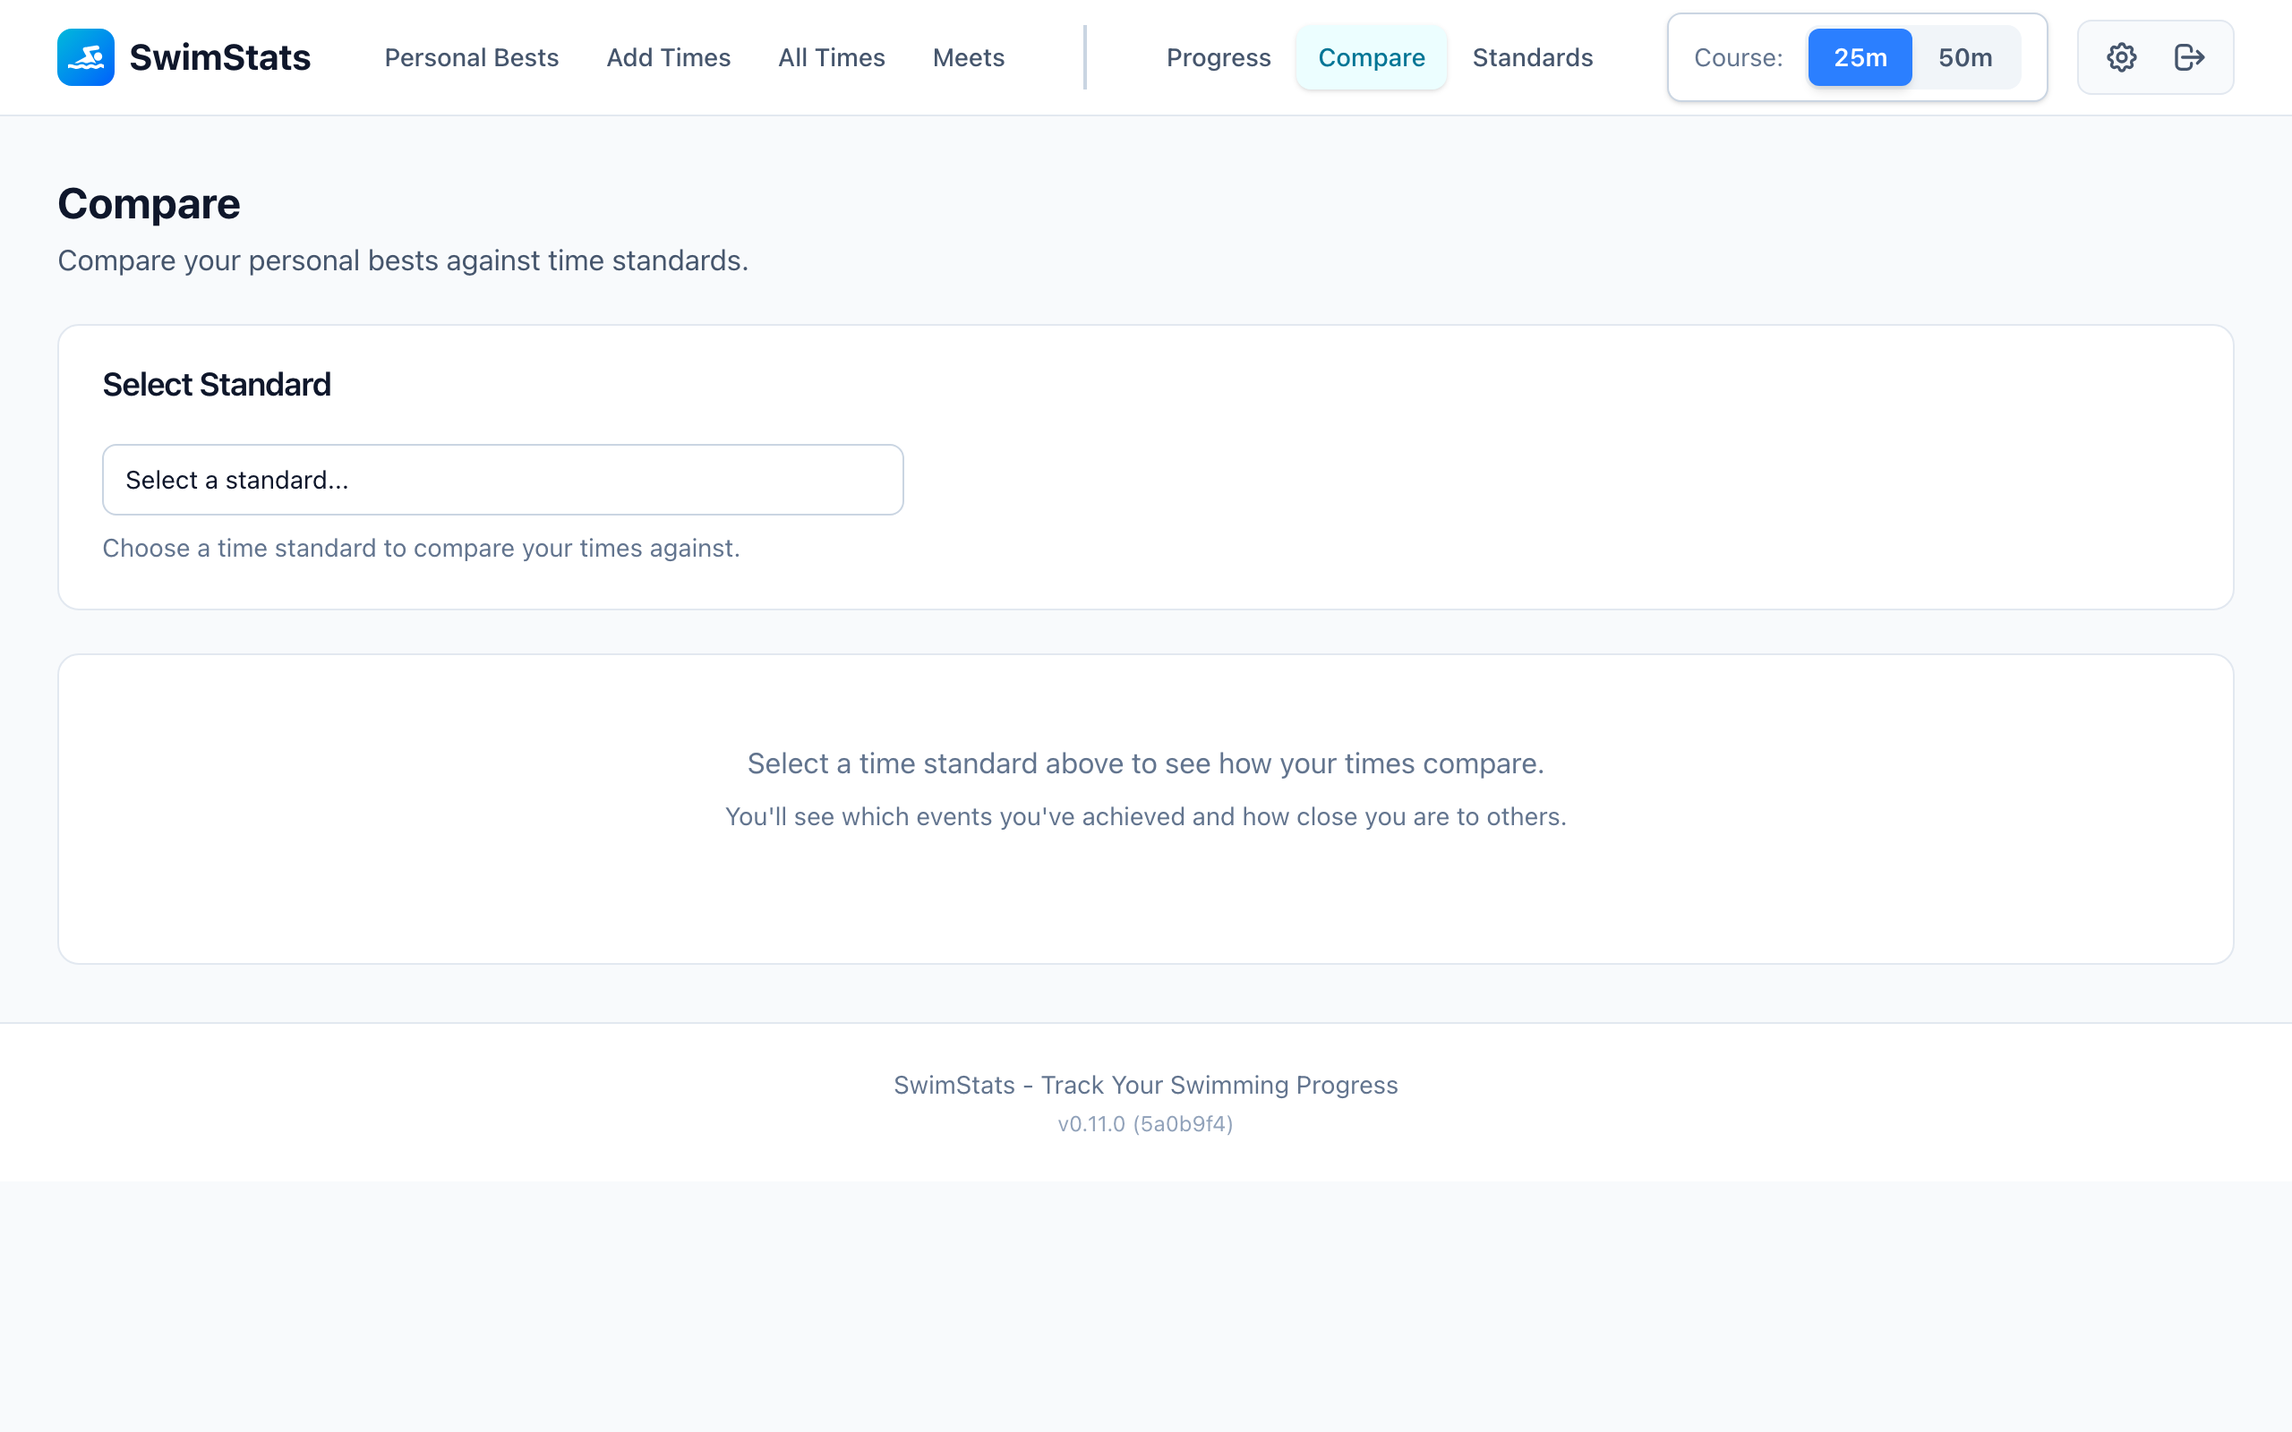
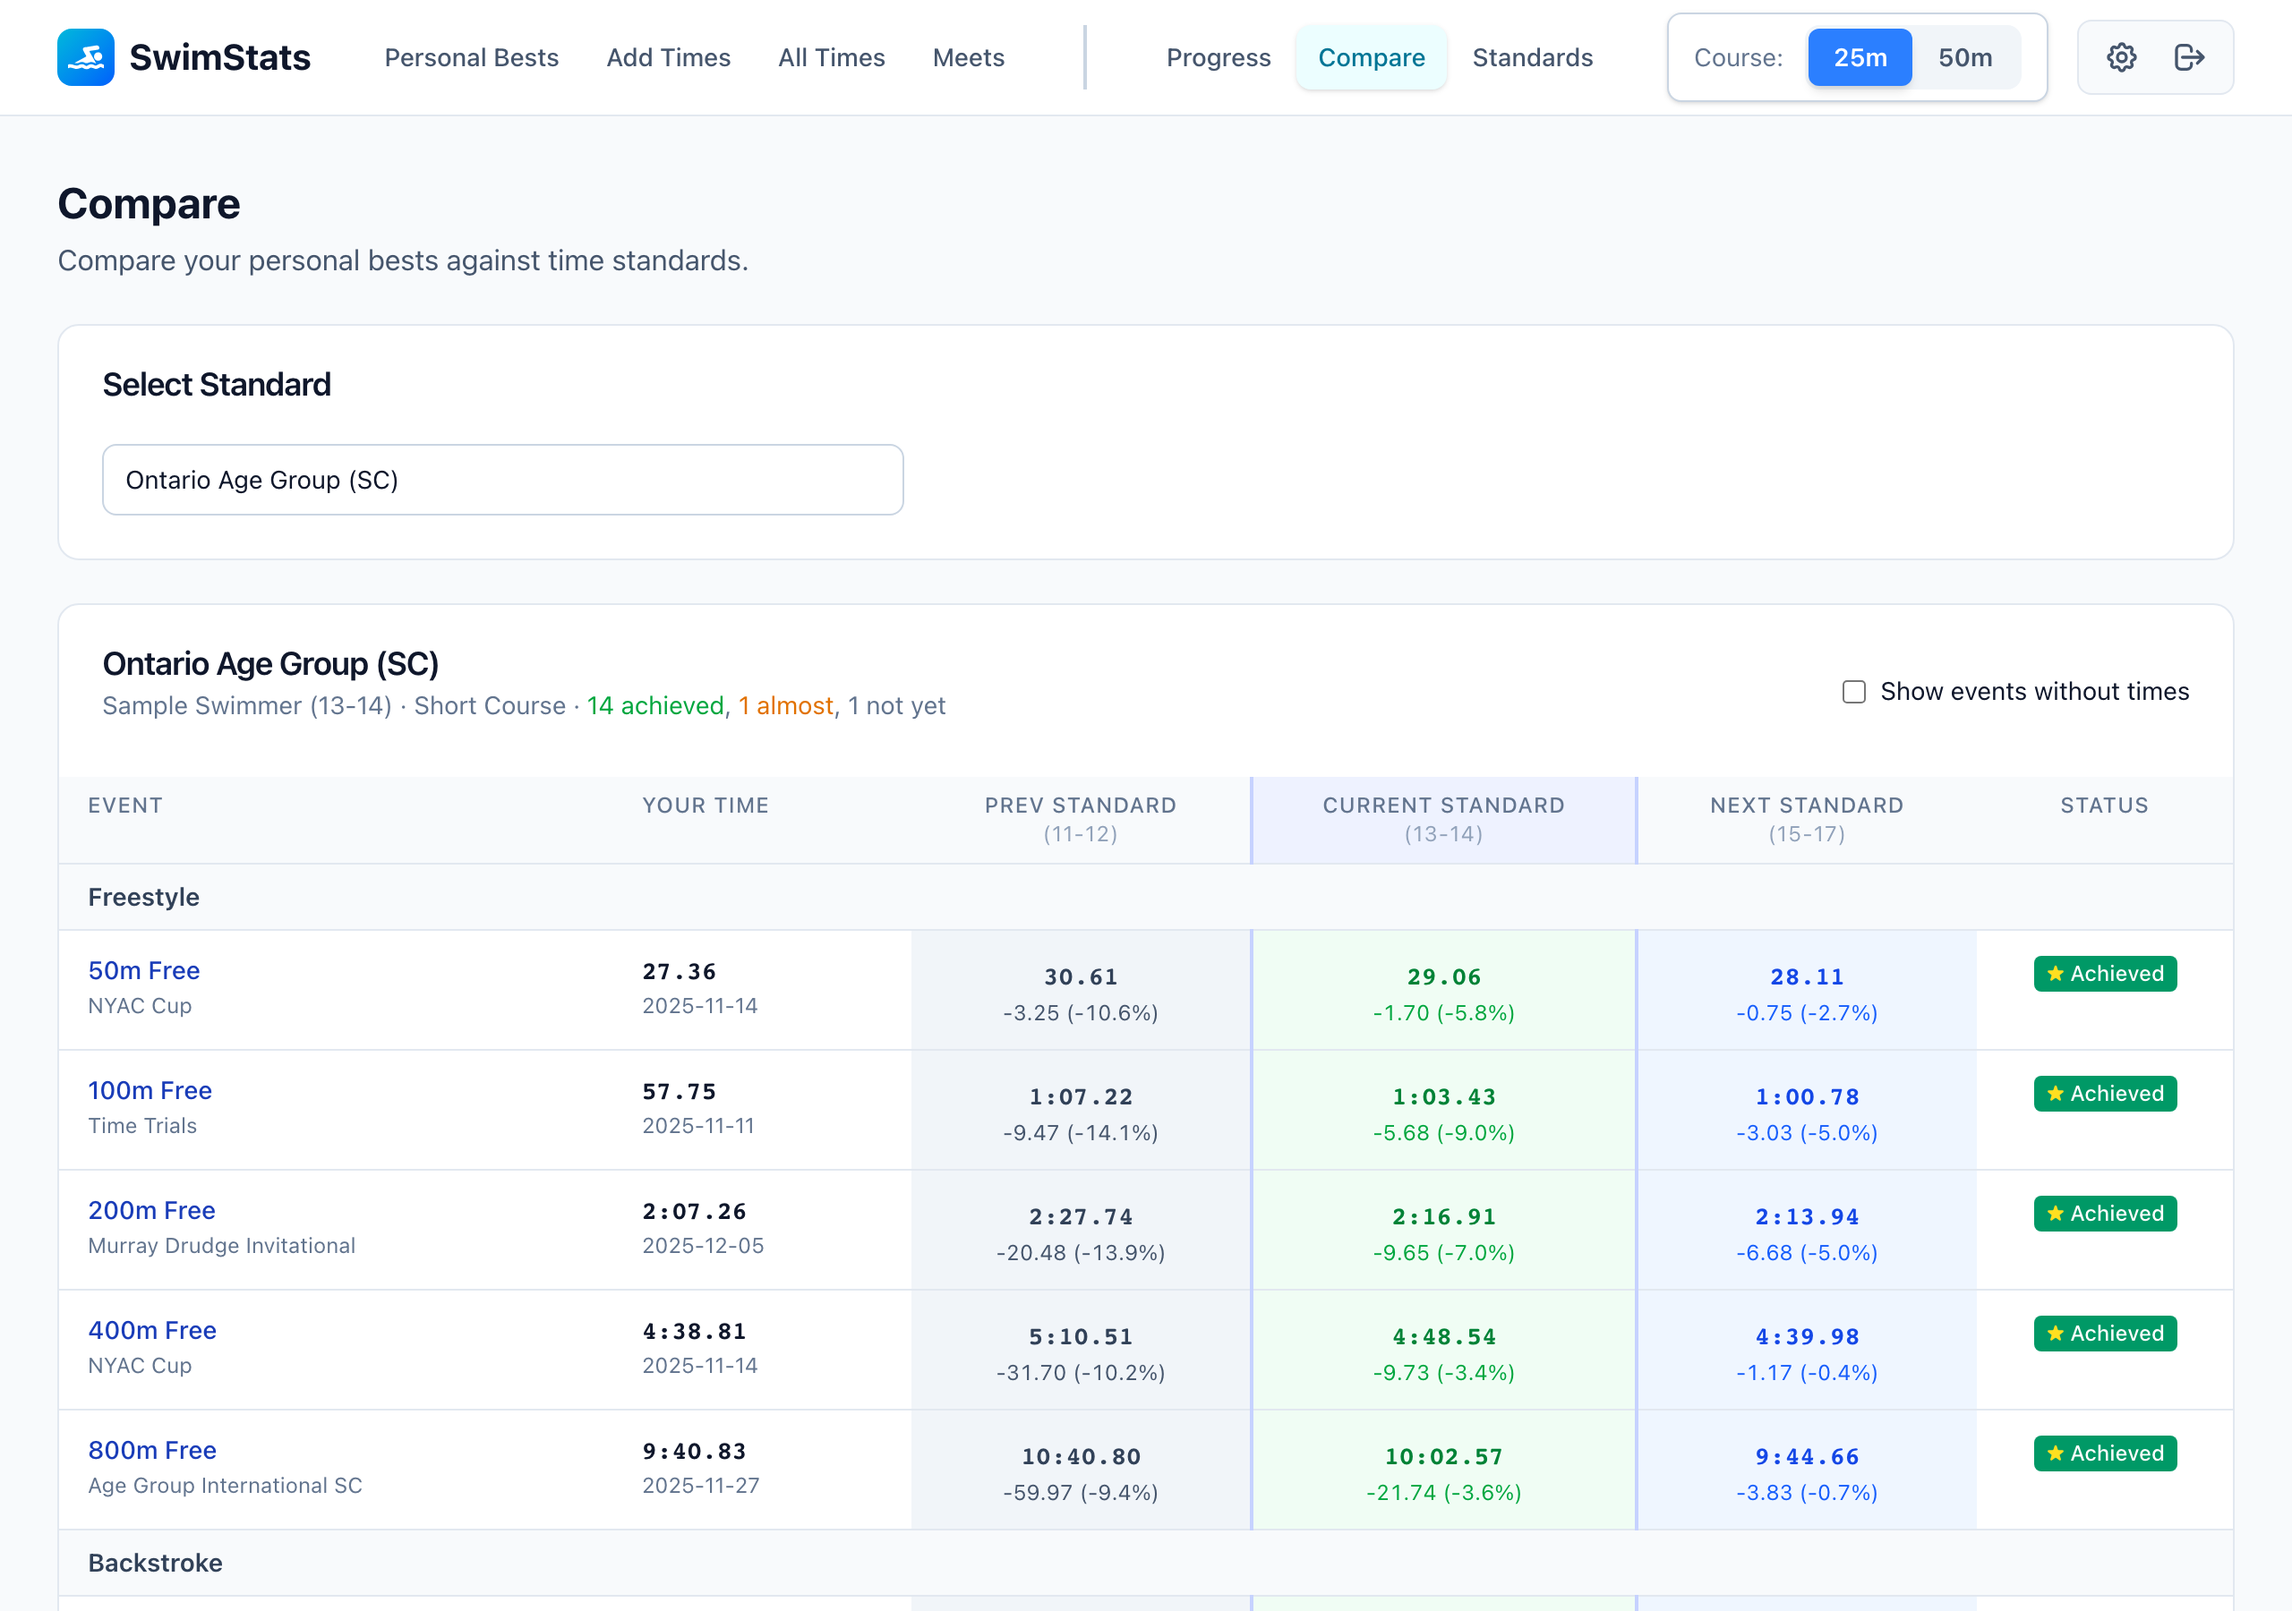
fix(docs): correct README inaccuracies and improve screenshots
- Fix Go version: 1.25+ -> 1.24+ (matches go.mod)
- Fix "All Times" description: not a dashboard
- Add Compare and Standards screenshots to README
- Retake Compare screenshot with data (was empty state)
- Remove unused home.png (login page)

diff --git a/README.md b/README.md
@@ -47,7 +47,7 @@ A web application for competitive swimmers to track their times, view personal b
 </details>
 
 <details>
-<summary>All Times - Complete history with dashboard</summary>
+<summary>All Times - Browse time history by event</summary>
 
 ![All Times](docs/screenshots/all-times.png)
 </details>
@@ -56,6 +56,18 @@ A web application for competitive swimmers to track their times, view personal b
 <summary>Meets - Organize times by competition</summary>
 
 ![Meets](docs/screenshots/meets.png)
+</details>
+
+<details>
+<summary>Compare - Check times against standards</summary>
+
+![Compare](docs/screenshots/compare.png)
+</details>
+
+<details>
+<summary>Standards - Manage time standards</summary>
+
+![Standards](docs/screenshots/standards.png)
 </details>
 
 <details>
@@ -68,7 +80,7 @@ A web application for competitive swimmers to track their times, view personal b
 
 **Backend:**
 
-- Go 1.25+
+- Go 1.24+
 - Chi router
 - PostgreSQL with SQLC
 - OIDC authentication (Authentik/Keycloak compatible)
@@ -83,7 +95,7 @@ A web application for competitive swimmers to track their times, view personal b
 
 ## Prerequisites
 
-- [Go 1.25+](https://go.dev/dl/)
+- [Go 1.24+](https://go.dev/dl/)
 - [Node.js 18+](https://nodejs.org/)
 - [Docker](https://www.docker.com/) & Docker Compose
 
